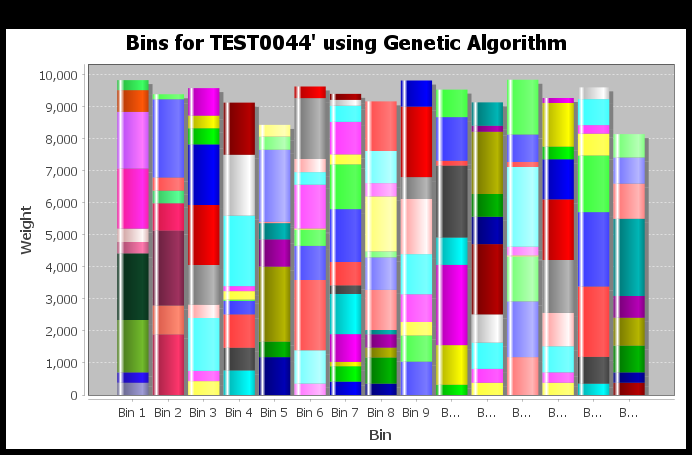
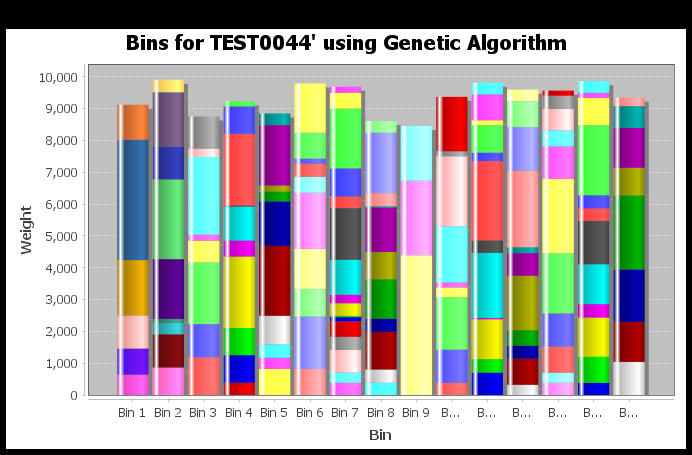
smol change

diff --git a/src/algorithms/FireFlyAlgorithm.java b/src/algorithms/FireFlyAlgorithm.java
@@ -13,7 +13,7 @@ import java.util.Random;
 
 public class FireFlyAlgorithm implements Algorithm {
     private int populationSize;
-    private double attractivenessBase;
+//    private double attractivenessBase;
     private double alpha;
     private double beta;
     private double gamma;
@@ -23,10 +23,10 @@ public class FireFlyAlgorithm implements Algorithm {
     public FireFlyAlgorithm() {
         // Initializing custom parameters
         this.populationSize = 100;
-        this.attractivenessBase = 0.1;
-        this.alpha = 0.5;
-        this.beta = 1.0;
-        this.gamma = 0.1;
+//        this.attractivenessBase = 0.1;
+        this.alpha = 0.25;
+        this.beta = 0.8;
+        this.gamma = 1;
         items = new ArrayList<Integer>();
     }
 
@@ -47,10 +47,22 @@ public class FireFlyAlgorithm implements Algorithm {
         	population.add(new Firefly(createFireFlies(items, Firefly_Position),binCapacity));
         }
         
-        int iteration=0;
-        while (solution.getCurrentRuntime() < timeLimit * 1000L) {
-        	Collections.sort(population, (c1, c2) -> Integer.compare(c1.getFitness(), c2.getFitness()));
+        int iteration= 0;
+        int bestFitness = 1000;
+        boolean Converge = false;
+        int unchangedCount = 0;
+        int maxUnchangedIterations = 100000;
+        while (Converge!=true) {
+        	Collections.sort(population, (c1, c2) -> Integer.compare(c1.getFitness(), c2.getFitness()));  	
         	population = moveFireflies(population);
+//        	System.out.println("bestFitness: " + population.get(0).getFitness());
+        	if(population.get(0).getFitness()<bestFitness) {
+        		bestFitness = population.get(0).getFitness();
+        		unchangedCount = 0;
+        	}else {
+                unchangedCount++;}
+        	if (unchangedCount >= maxUnchangedIterations) {
+                Converge = true; }
         	iteration++;
         }
         
@@ -100,7 +112,9 @@ public class FireFlyAlgorithm implements Algorithm {
     				
                     for (int i = 0; i < current.getPosition().size(); i++) {
                         if (random.nextDouble() < betaAttractiveness) {
-                            int newPosition = current.getPosition().get(i) + (int) moveProb;
+                            int newPosition = current.getPosition().get(i) 
+                            					+ (int) (betaAttractiveness * (other.getPosition().get(i)- current.getPosition().get(i)))
+                            					+ (int) moveProb;
                             current.getPosition().set(i, newPosition);
                         }
                     }

diff --git a/src/Main.java b/src/Main.java
@@ -84,8 +84,8 @@ public class Main {
 //            }
 //            System.out.println();
             
-            JFrame frame2 = plotBins(bins2, problem.getName(),"PSO");
-            String filePaths = "results/problem_" + problem.getName() + " PSO "+ ".png";
+            JFrame frame2 = plotBins(bins2, problem.getName(),"Firefly");
+            String filePaths = "results/problem_" + problem.getName() + " Firefly "+ ".png";
             saveFrameAsImage(frame2, filePaths);
             System.out.println("Image saved to: " + filePaths);
 //            break;
